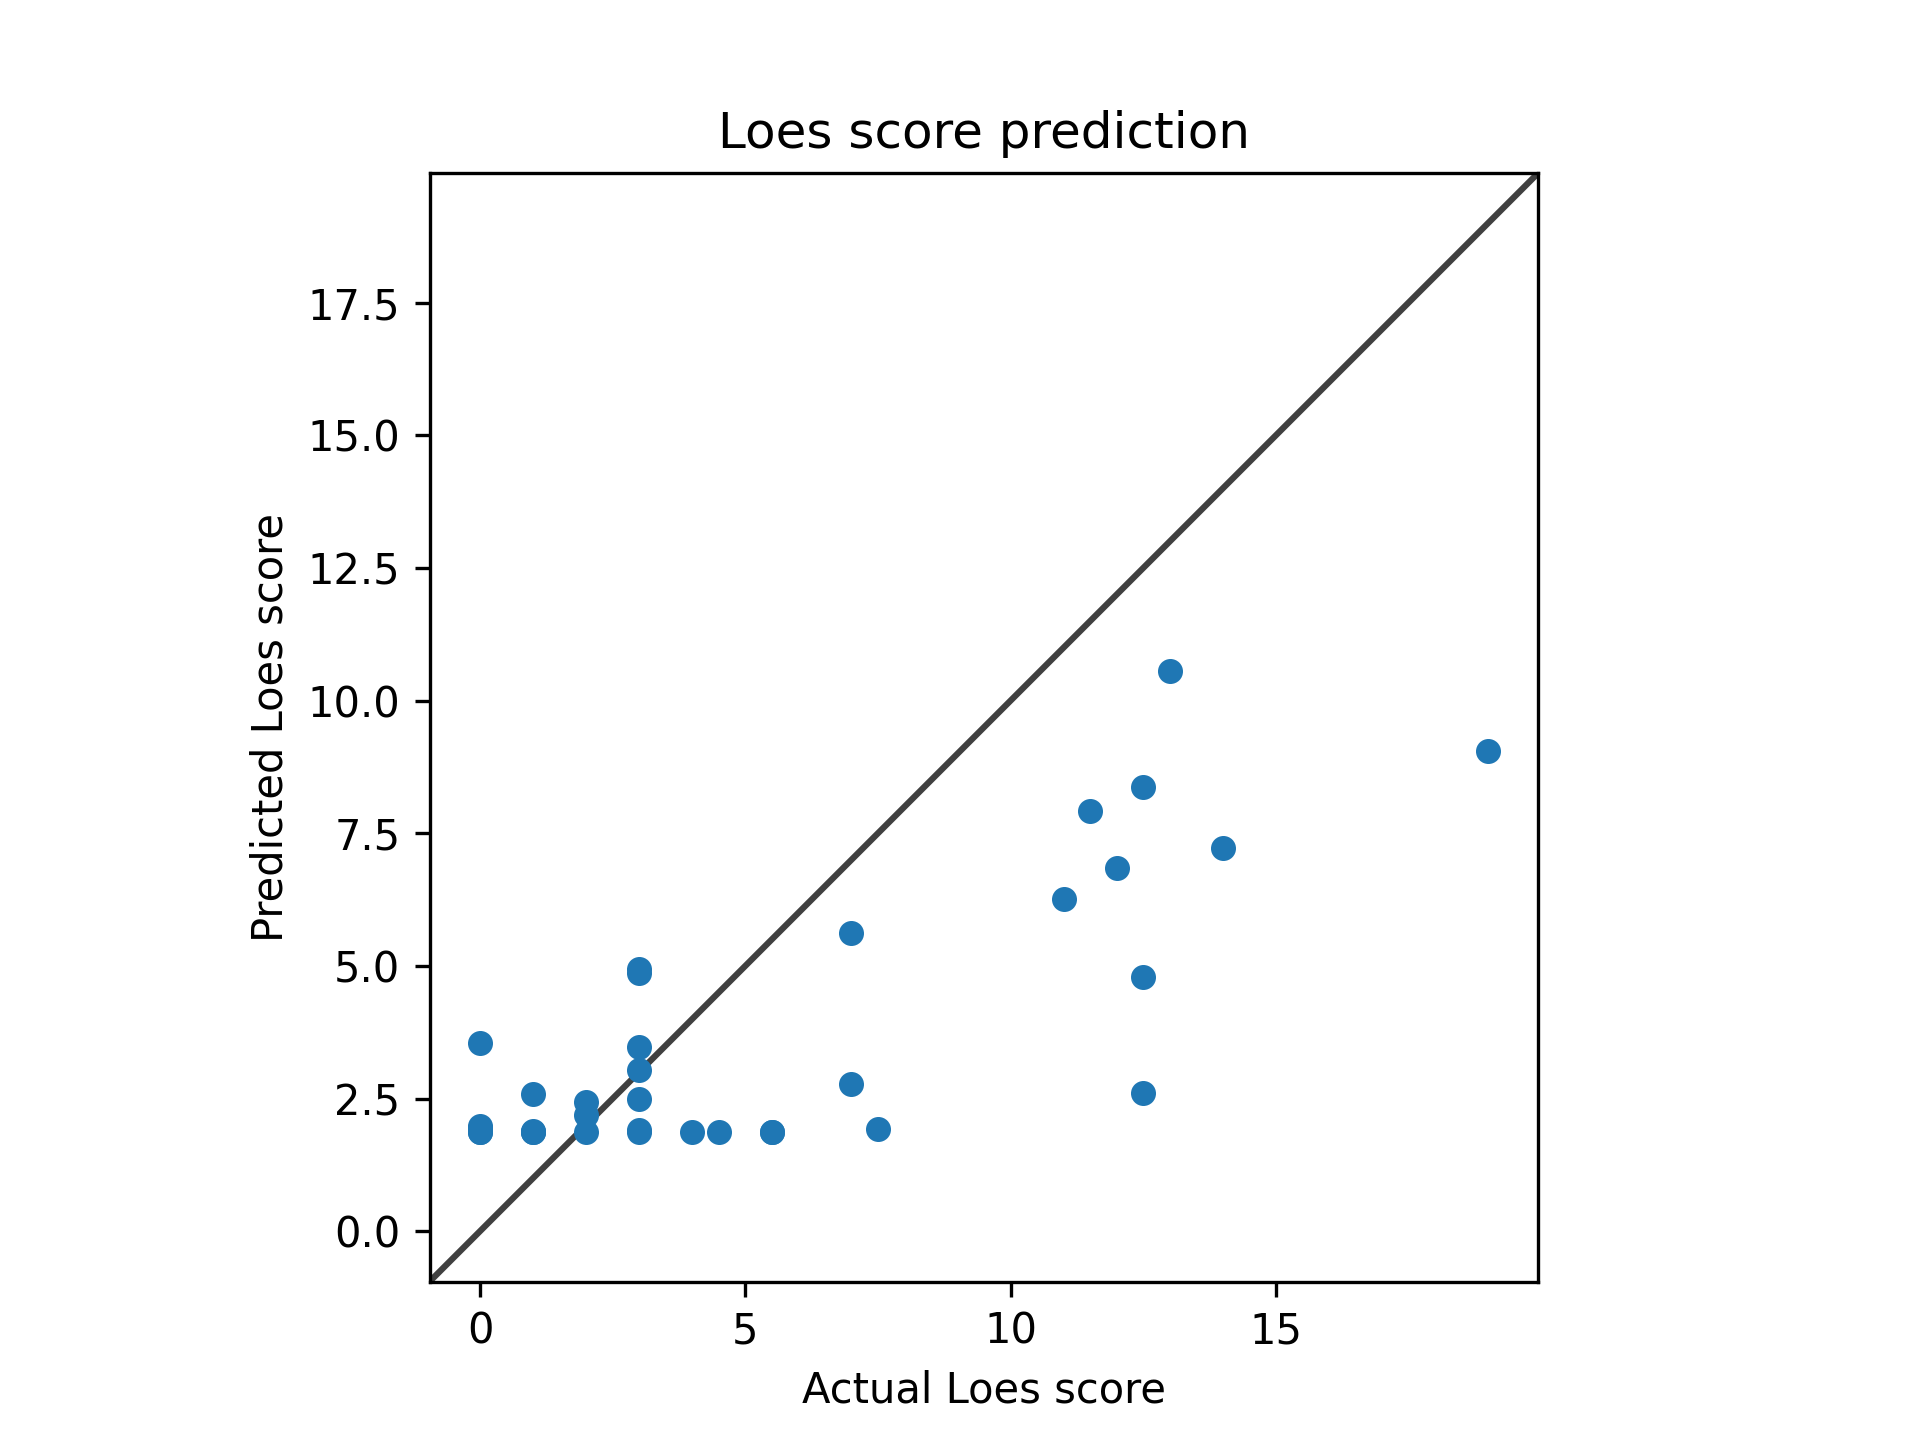
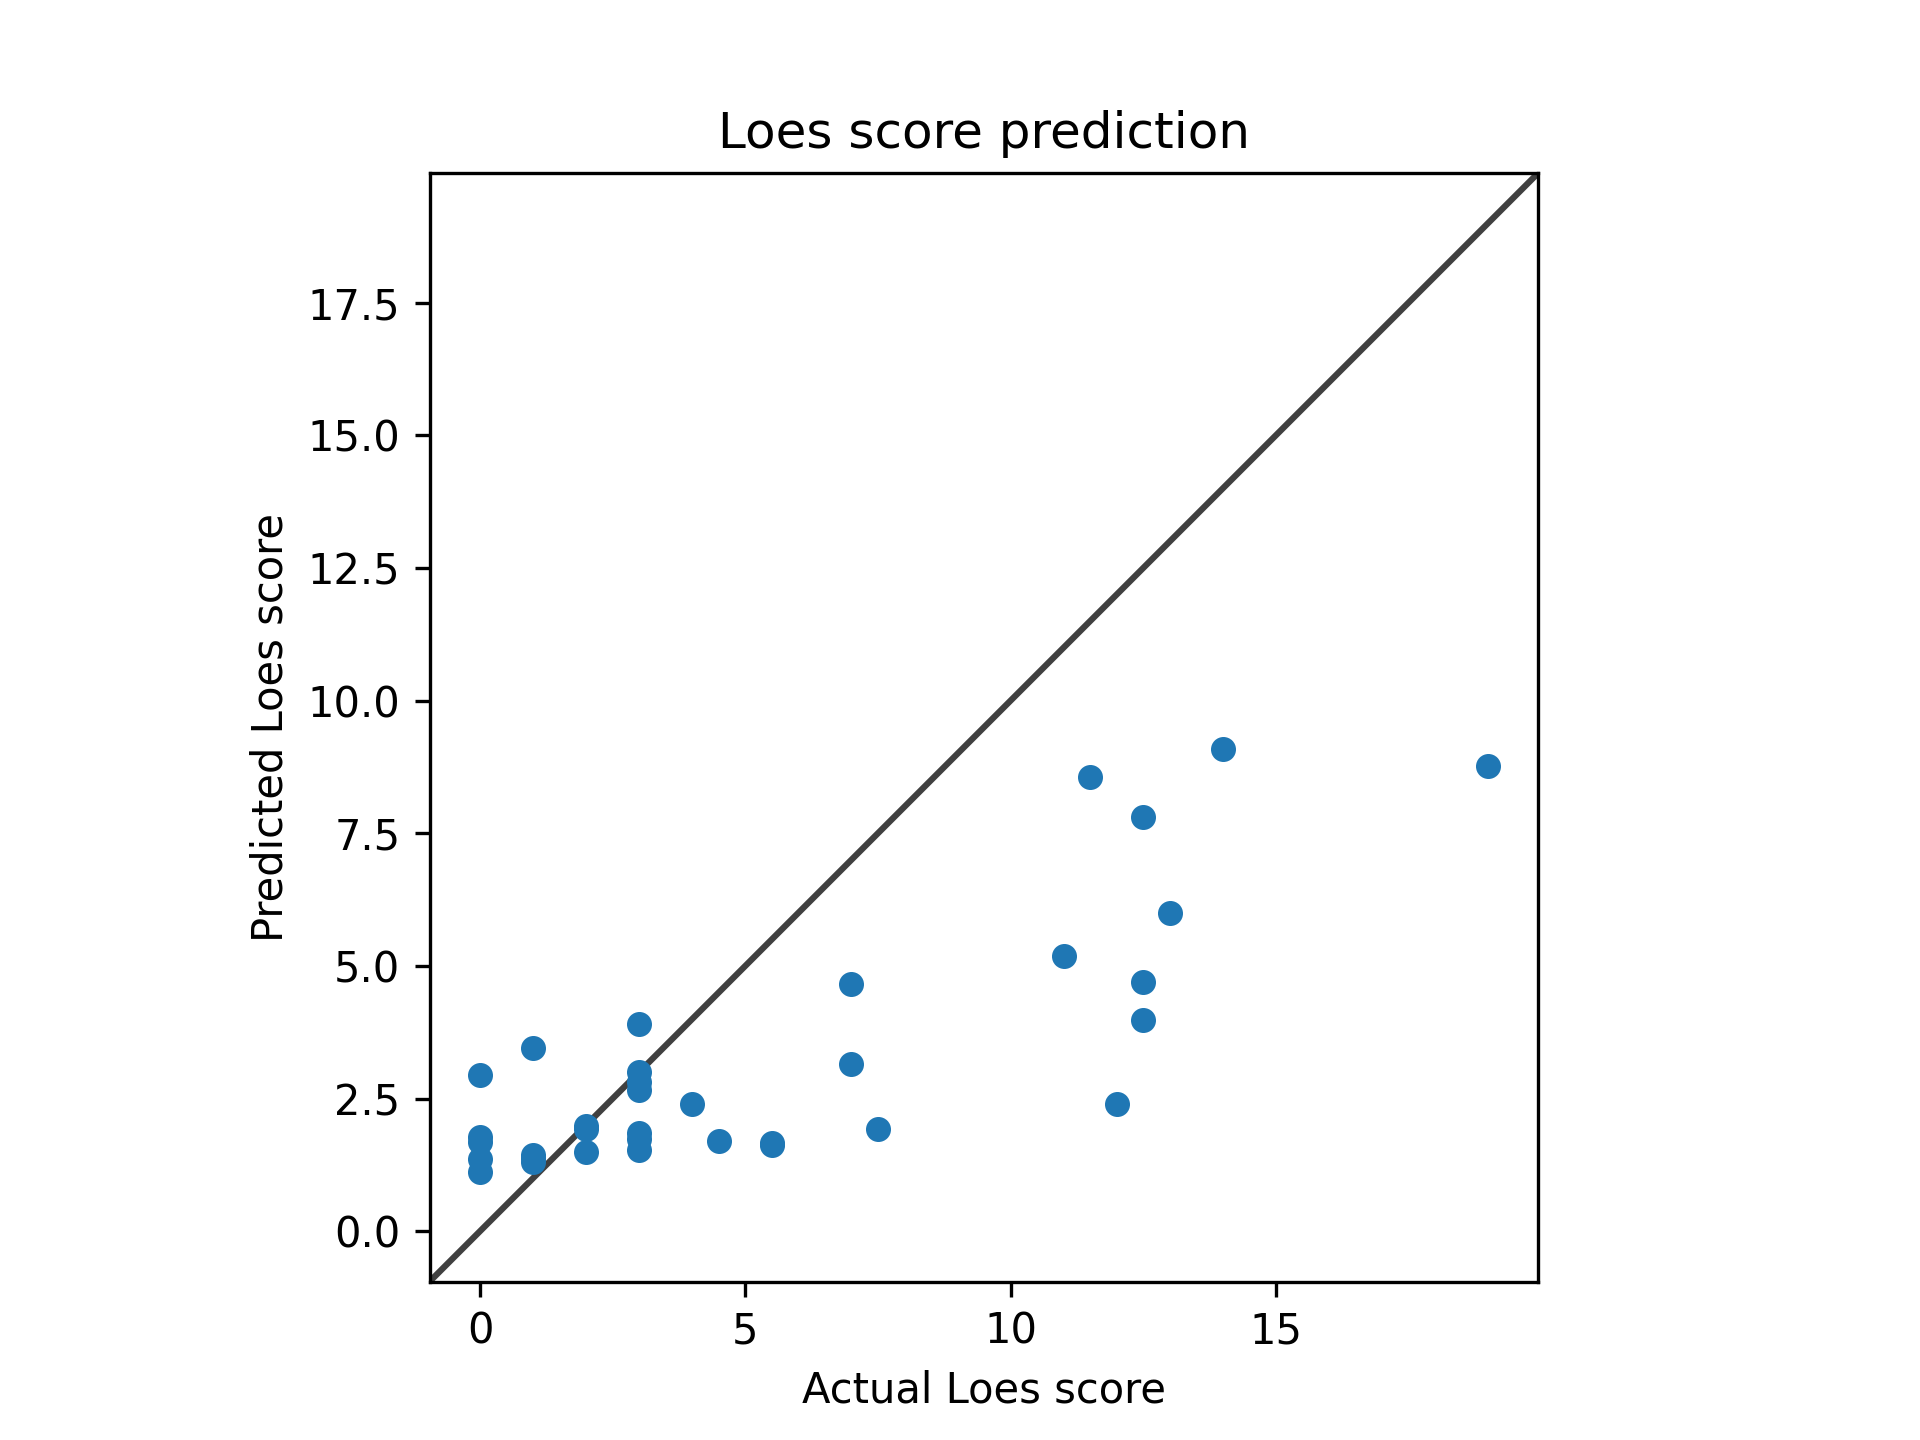
Model 12 done.

diff --git a/src/dcan/training/training.py b/src/dcan/training/training.py
@@ -6,18 +6,16 @@ import sys
 
 import numpy as np
 import pandas as pd
+from scipy import stats
 import torch
 import torch.nn as nn
 from torch.optim import Adam, SGD
 from torch.utils.data import DataLoader
 from torch.utils.tensorboard import SummaryWriter
-import matplotlib.pyplot as plt
 
 from dcan.data_sets.dsets import LoesScoreDataset
-from dcan.inference.make_predictions import compute_standardized_rmse
+from dcan.inference.make_predictions import add_predicted_values, compute_standardized_rmse, create_correlation_coefficient, create_scatter_plot, get_validation_info
 from dcan.inference.models import AlexNet3D
-from dcan.metrics import get_standardized_rmse
-from dcan.plot import create_scatterplot
 from faimed3d.models.resnet import ResNet3D
 from util.logconf import logging
 from util.util import enumerateWithEstimate
@@ -59,6 +57,7 @@ class Config:
         self.parser.add_argument('--use-train-validation-cols', action='store_true')
         self.parser.add_argument('-k', type=int, default=0, help='Index for 5-fold validation')
         self.parser.add_argument('--folder', help='Folder where MRIs are stored')
+        self.parser.add_argument('--csv-output-file', help="CSV output file.")
 
     def parse_args(self, sys_argv: list[str]) -> argparse.Namespace:
         return self.parser.parse_args(sys_argv)
@@ -113,68 +112,6 @@ class ModelHandler:
         self.model.load_state_dict(torch.load(model_path))
 
 import torch
-
-def debug_training(training_app):
-    # Step 1: Print Initial Model Parameters
-    model = training_app.model_handler.model
-    optimizer = training_app.optimizer
-    device = training_app.device
-    
-    print("\nDEBUG: Checking Initial Model Parameters...\n")
-    for name, param in model.named_parameters():
-        print(f"{name}: mean={param.data.mean():.5f}, std={param.data.std():.5f}")
-
-    # Step 2: Print Initial Predictions (Before Training)
-    sample_input, sample_label, _, _ = next(iter(training_app.data_handler.init_dl(
-        training_app.folder, training_app.df['anonymized_subject_id'].tolist(), is_val_set=True)))
-    
-    sample_input = sample_input.to(device)
-    model.eval()
-    with torch.no_grad():
-        initial_preds = model(sample_input)
-
-    print("\n=Ñ BEFORE TRAINING: Sample Predictions\n", initial_preds[:5].squeeze().cpu().numpy())
-
-    # Step 3: Run One Training Epoch & Check Loss
-    training_loop = TrainingLoop(training_app.model_handler, optimizer, device)
-    train_dl = training_app.data_handler.init_dl(training_app.folder, training_app.df['anonymized_subject_id'].tolist())
-    
-    print("\n¡ TRAINING ONE EPOCH...\n")
-    trn_metrics = training_loop.train_epoch(1, train_dl)
-    
-    print(f"LOSS AFTER FIRST EPOCH: {trn_metrics[METRICS_LOSS_NDX].mean().item():.6f}")
-
-    # Step 4: Print Model Parameters After Training
-    print("DEBUG: Checking Updated Model Parameters...\n")
-    for name, param in model.named_parameters():
-        print(f"{name}: mean={param.data.mean():.5f}, std={param.data.std():.5f}")
-
-    # Step 5: Check Predictions After Training
-    model.eval()
-    with torch.no_grad():
-        updated_preds = model(sample_input)
-
-    print("\n= AFTER TRAINING: Sample Predictions\n", updated_preds[:5].squeeze().cpu().numpy())
-
-    # Step 6: Check Gradients (Ensuring They Are Not Zero)
-    print("\n=Ê Checking Gradients...\n")
-    model.train()
-    optimizer.zero_grad()
-    outputs = model(sample_input)
-    loss_func = torch.nn.MSELoss()
-    loss = loss_func(outputs.squeeze(), sample_label.to(device))
-    loss.backward()
-
-    for name, param in model.named_parameters():
-        if param.grad is not None:
-            print(f"{name}: grad mean={param.grad.mean().item():.5f}, grad std={param.grad.std().item():.5f}")
-
-    # Step 7: Check Data Normalization
-    print("\n=É Checking Data Normalization...\n")
-    print(f"Input mean: {sample_input.mean().item():.5f}, std: {sample_input.std().item():.5f}")
-
-
-
 
 
 # Training/Validation Loop Handler
@@ -310,20 +247,24 @@ class LoesScoringTrainingApp:
         self.tb_logger.close()
         self.tb_logger.close()
 
-        val_dl = self.data_handler.init_dl(self.folder, val_subjects, is_val_set=True)
+        input_csv_location = self.config.csv_data_file
+        subjects, sessions, actual_scores, predict_vals = get_validation_info(self.config.model_save_location, input_csv_location)
+        output_csv_location = self.config.csv_output_file
+        output_df = add_predicted_values(subjects, sessions, predict_vals, input_csv_location)
+        output_df.to_csv(output_csv_location, index=False)
+        standardized_rmse = \
+            compute_standardized_rmse(actual_scores, predict_vals)
+        log.info(f'standardized_rmse: {standardized_rmse}')
+        create_scatter_plot(actual_scores, predict_vals, self.config.plot_location)
+        correlation_coefficient = create_correlation_coefficient(actual_scores, predict_vals)
+        log.info(f'correlation_coefficient: {correlation_coefficient}')
 
+        _, p_value = stats.pearsonr(actual_scores, predict_vals)
+        log.info(f"Pearson correlation p-value: {p_value}")
 
-        subjects = []
-        sessions = []
-        
-        for val in iter(val_dl):
-            subjects.extend(val[2])
-            sessions.extend(val[3])
-        print(f'subjects: {subjects}')
-        print(f'sessions: {sessions}')
+        _, p_value = stats.spearmanr(actual_scores, predict_vals)
+        log.info(f"Spearman correlation p-value: {p_value}")
 
-        standardized_rmse = compute_standardized_rmse(self.output_df, self.config.model_save_location, self.folder, subjects, sessions)
-        print(f'standardized_rmse: {standardized_rmse}')
 
     def split_train_validation(self):
         training_rows = self.df.loc[self.df['training'] == 1]
@@ -336,8 +277,6 @@ class LoesScoringTrainingApp:
 def main():
     loesScoringTrainingApp = LoesScoringTrainingApp(sys_argv=sys.argv)
     loesScoringTrainingApp.main()
-
-    # debug_training(LoesScoringTrainingApp(sys.argv))
 
 
 if __name__ == "__main__":

diff --git a/doc/models/model12/model12.md b/doc/models/model12/model12.md
@@ -1,13 +1,11 @@
 # Model 12
 * data: /users/9/reine097/projects/loes-scoring-2/data/anon_train_scans_and_loes.csv
 * Gd: Unenhanced scans.
-* Standardized RMSE: 1.00501227551253
-![Model 11](./correlation.png "Model 11")
-* correlation:    0.7339622568252901
-* p-value:        4.75287638500951e-08
-* standard error: 0.06448283939686567
-* SLURM script: ../../../bin/loes-scoring-training_model11_mesabi.sh*
-* Model: */home/feczk001/shared/data/AlexNet/LoesScoring/loes_scoring_09_256.pt*
+* Standardized RMSE: 0.8022011222885228
+![Model 12](./model12.png "Model 12")
+* correlation:    0.8139580489078295
+* SLURM script: *bin/training/loes-scoring-training_model_agate_12.sh*
+* Model: */home/feczk001/shared/data/AlexNet/LoesScoring/loes_scoring_12.pt*
 * Epochs: 512
-* lr: 0.0001
-* output_csv: /home/miran045/reine097/projects/loes-scoring-2/doc/models/model09/output_256.csv
+* lr: 0.001
+* output_csv: doc/models/model12/model12.csv
